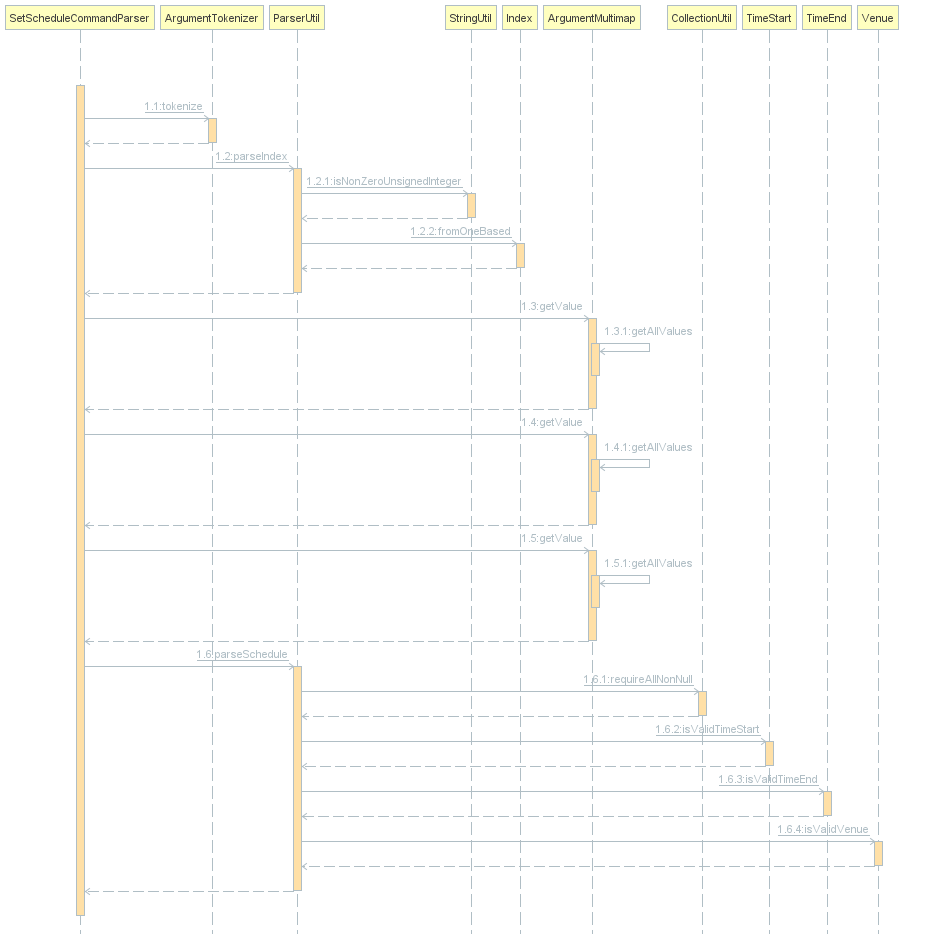
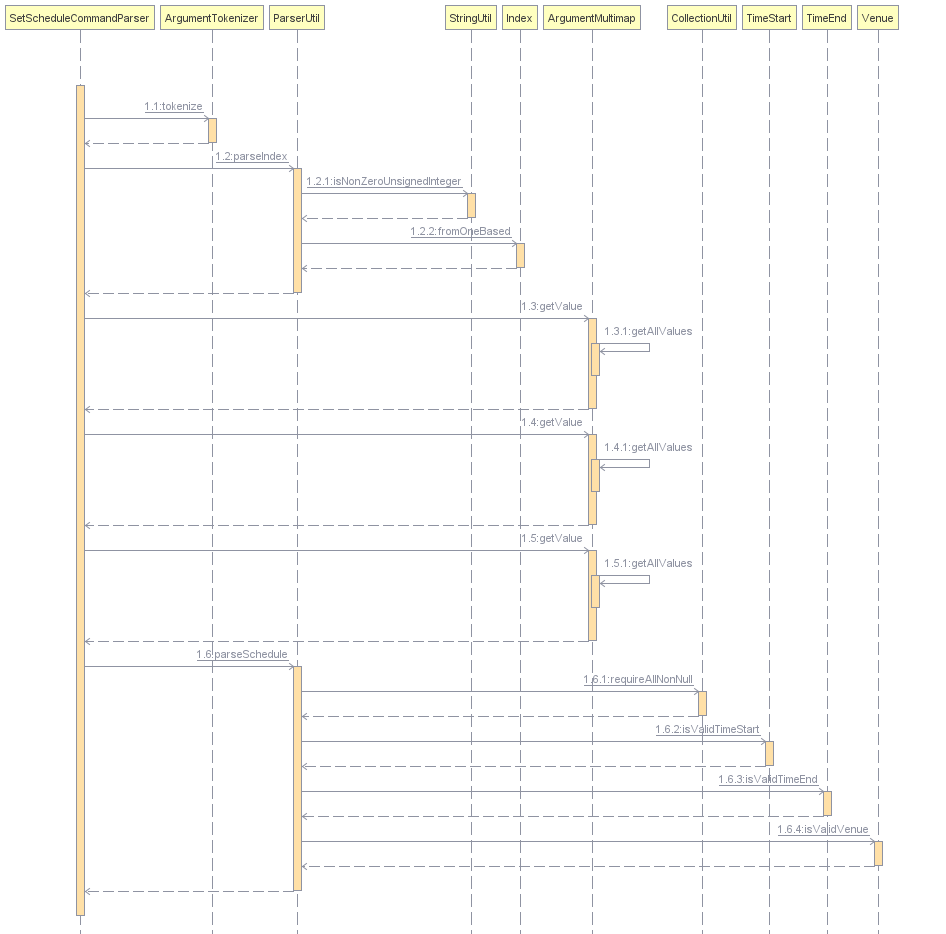
Rebuild pages at 35c012420295cbaadfa318586eb39bc3f50b9c1b

diff --git a/team/speezy37.html b/team/speezy37.html
@@ -286,7 +286,7 @@ The <code>SetScheduleCommandParser</code>, which implements the <code>Parser</co
 </div>
 <div class="imageblock">
 <div class="content">
-<img src="../images/SetScheduleCommandParserSequenceDiagram.png" alt="SetScheduleCommandParserSequenceDiagram" width="800">
+<img src="../images/SetScheduleCommandParserSequenceDiagram.png" alt="SetScheduleCommandParserSequenceDiagram">
 </div>
 <div class="title">Figure 1. Sequence diagram of SetScheduleCommandParser</div>
 </div>
@@ -456,4 +456,4 @@ Expected: Time start and time end are the same. Error detail shown in the status
 </div>
 </div>
 </div>
-</div></div><div id="footer"><div class="container"><div id="footer-text">Last updated 2018-11-12 08:04:18 UTC</div></div></div></body></html>
+</div></div><div id="footer"><div class="container"><div id="footer-text">Last updated 2018-11-12 08:07:07 UTC</div></div></div></body></html>

diff --git a/DeveloperGuide.html b/DeveloperGuide.html
@@ -966,7 +966,7 @@ The <code>SetScheduleCommandParser</code>, which implements the <code>Parser</co
 </div>
 <div class="imageblock">
 <div class="content">
-<img src="images/SetScheduleCommandParserSequenceDiagram.png" alt="SetScheduleCommandParserSequenceDiagram" width="800">
+<img src="images/SetScheduleCommandParserSequenceDiagram.png" alt="SetScheduleCommandParserSequenceDiagram">
 </div>
 <div class="title">Figure 14. Sequence diagram of SetScheduleCommandParser</div>
 </div>
@@ -4613,4 +4613,4 @@ Expected: Application will exit. The two files will be deleted upon application 
 </div>
 </div>
 </div>
-</div></div><div id="footer"><div class="container"><div id="footer-text">Last updated 2018-11-12 08:04:18 UTC</div></div></div></body></html>
+</div></div><div id="footer"><div class="container"><div id="footer-text">Last updated 2018-11-12 08:07:07 UTC</div></div></div></body></html>

diff --git a/ContactUs.html b/ContactUs.html
@@ -12,4 +12,4 @@
 <p><strong>Email us</strong> : You can also reach us at <code>limwoonhian [at] u.nus.edu</code></p>
 </li>
 </ul>
-</div></div><div id="footer"><div class="container"><div id="footer-text">Last updated 2018-11-12 08:04:18 UTC</div></div></div></body></html>
+</div></div><div id="footer"><div class="container"><div id="footer-text">Last updated 2018-11-12 08:07:07 UTC</div></div></div></body></html>

diff --git a/HelpWindow.html b/HelpWindow.html
@@ -2072,4 +2072,4 @@ Department names should start with a name, and ends with 'Management'.</p></td>
 </tbody>
 </table>
 </div>
-</div></div><div id="footer"><div class="container"><div id="footer-text">Last updated 2018-11-12 08:04:18 UTC</div></div></div></body></html>
+</div></div><div id="footer"><div class="container"><div id="footer-text">Last updated 2018-11-12 08:07:07 UTC</div></div></div></body></html>

diff --git a/UserGuide.html b/UserGuide.html
@@ -2072,4 +2072,4 @@ Department names should start with a name, and ends with 'Management'.</p></td>
 </tbody>
 </table>
 </div>
-</div></div><div id="footer"><div class="container"><div id="footer-text">Last updated 2018-11-12 08:04:18 UTC</div></div></div></body></html>
+</div></div><div id="footer"><div class="container"><div id="footer-text">Last updated 2018-11-12 08:07:07 UTC</div></div></div></body></html>

diff --git a/LearningOutcomes.html b/LearningOutcomes.html
@@ -542,4 +542,4 @@ class gives some examples of how to use <em>Equivalence Partitions</em>, <em>Bou
 </div>
 </div>
 </div>
-</div></div><div id="footer"><div class="container"><div id="footer-text">Last updated 2018-11-12 08:04:18 UTC</div></div></div></body></html>
+</div></div><div id="footer"><div class="container"><div id="footer-text">Last updated 2018-11-12 08:07:07 UTC</div></div></div></body></html>

diff --git a/team/jylee-git.html b/team/jylee-git.html
@@ -713,4 +713,4 @@ Expected: Application will exit. The two files will be deleted upon application 
 </div>
 </div>
 </div>
-</div></div><div id="footer"><div class="container"><div id="footer-text">Last updated 2018-11-12 08:04:18 UTC</div></div></div></body></html>
+</div></div><div id="footer"><div class="container"><div id="footer-text">Last updated 2018-11-12 08:07:07 UTC</div></div></div></body></html>

diff --git a/team/pinjuen.html b/team/pinjuen.html
@@ -305,4 +305,4 @@ The result of <code>checkCommand</code> execution is encapsulated as a <code>Com
 </div>
 </div>
 </div>
-</div></div><div id="footer"><div class="container"><div id="footer-text">Last updated 2018-11-12 08:04:18 UTC</div></div></div></body></html>
+</div></div><div id="footer"><div class="container"><div id="footer-text">Last updated 2018-11-12 08:07:07 UTC</div></div></div></body></html>

diff --git a/team/woonhian.html b/team/woonhian.html
@@ -566,4 +566,4 @@ The result of <code>FilterDepartmentCommand</code> execution is encapsulated as 
 </div>
 </div>
 </div>
-</div></div><div id="footer"><div class="container"><div id="footer-text">Last updated 2018-11-12 08:04:18 UTC</div></div></div></body></html>
+</div></div><div id="footer"><div class="container"><div id="footer-text">Last updated 2018-11-12 08:07:07 UTC</div></div></div></body></html>

diff --git a/UsingGradle.html b/UsingGradle.html
@@ -255,4 +255,4 @@ See <code>build.gradle</code> &#8594; <code>allprojects</code> &#8594; <code>dep
 </ul>
 </div>
 </div>
-</div></div><div id="footer"><div class="container"><div id="footer-text">Last updated 2018-11-12 08:04:18 UTC</div></div></div></body></html>
+</div></div><div id="footer"><div class="container"><div id="footer-text">Last updated 2018-11-12 08:07:07 UTC</div></div></div></body></html>

diff --git a/UsingNetlify.html b/UsingNetlify.html
@@ -123,4 +123,4 @@ The publish directory is the directory in which the built HTML documentation res
 </ol>
 </div>
 </div>
-</div></div><div id="footer"><div class="container"><div id="footer-text">Last updated 2018-11-12 08:04:18 UTC</div></div></div></body></html>
+</div></div><div id="footer"><div class="container"><div id="footer-text">Last updated 2018-11-12 08:07:07 UTC</div></div></div></body></html>

diff --git a/UsingCoveralls.html b/UsingCoveralls.html
@@ -96,4 +96,4 @@ If you have not set up Travis CI, see <a href="UsingTravis.html">UsingTravis.ado
 </ol>
 </div>
 </div>
-</div></div><div id="footer"><div class="container"><div id="footer-text">Last updated 2018-11-12 08:04:18 UTC</div></div></div></body></html>
+</div></div><div id="footer"><div class="container"><div id="footer-text">Last updated 2018-11-12 08:07:07 UTC</div></div></div></body></html>
